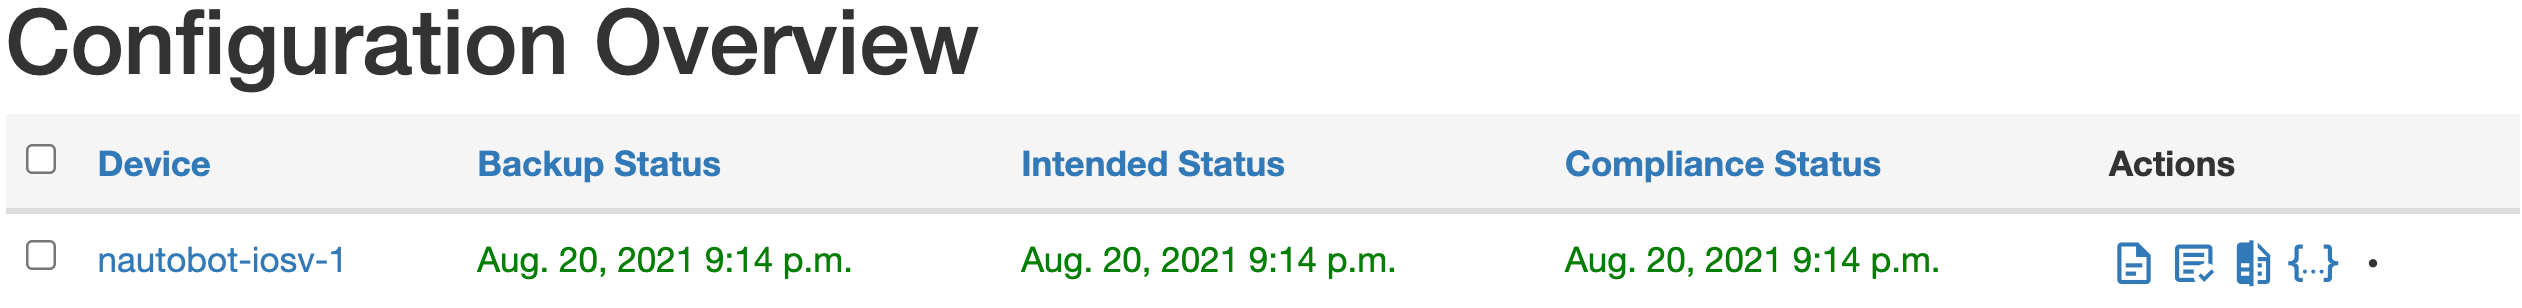
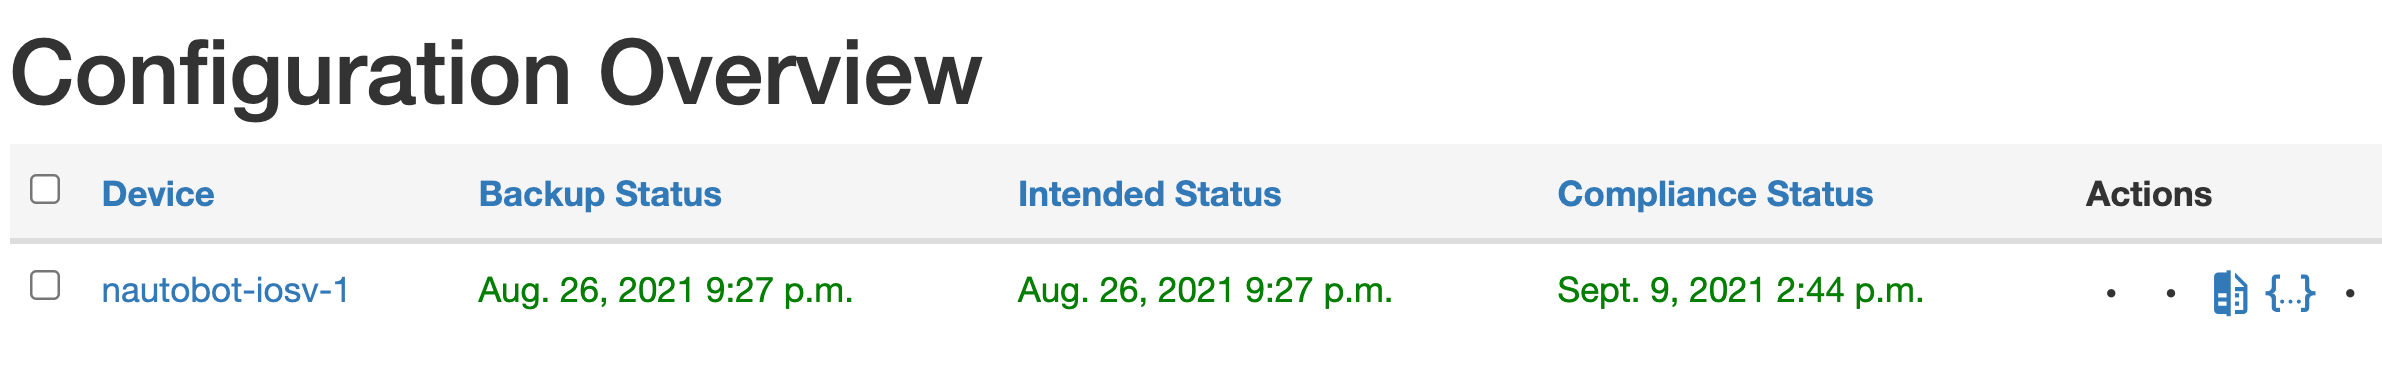
fix docs and images

diff --git a/docs/navigating-compliance-json.md b/docs/navigating-compliance-json.md
@@ -74,9 +74,9 @@ As soon as a Configuration Compliance object has been created using the API seen
 
 Seeing the diff button alone will **only** show up for devices using JSON compliance rules.
 
-> Note: The backend will process and find all compliance rule objects that exist for the device and the create the a temporary backup and intended configurations on the fly. Meaning, when the **diff** action button is clicked all of the processes happens at that time, to render the diff.
-
 
 ![Show Updated Overview](./img/07-navigating-compliance-json.png)
 
 The detailed diff view will show a side by side diff, this looks the same as the CLI view.
+
+![Detail Diff View](./img/08-navigating-compliance-json.png)
